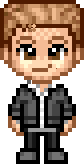
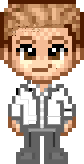
TONY BIG BOSS ADDED

diff --git a/game/game.py b/game/game.py
@@ -10,6 +10,7 @@ class projectile(object):
         self.facing = facing
         self.vel = 8*facing
         self.haskellCount = 0
+        self.damage = 1
         self.haskellShots = [pygame.image.load('images/java_this.png'),pygame.image.load('images/java_abstract.png'),pygame.image.load('images/java_final.png'),pygame.image.load('images/java_hash.png')]
 
     def draw(self, win):
@@ -19,6 +20,62 @@ class projectile(object):
         self.x += self.vel
 
         win.blit(self.haskellShots[self.haskellCount//10], (round(self.x - scroll[0]), round(self.y - scroll[1])))
+
+class enemy(object):
+
+    def __init__(self, x, y, width, height):
+        self.x = x
+        self.y = y
+        self.width = width
+        self.height = height
+        #self.path = (self.x, self.end)
+        self.walkCount = 0
+        self.vel = 3
+        #self.hitbox = (self.x + 17, self.y + 2, 31, 57)
+        self.visible = True
+        self.health = 10
+        # self.walkRight = [pygame.image.load('images/boss_rightStep1.png'), pygame.image.load('images/boss_rightStep2.png')]
+        # self.walkLeft = [pygame.image.load('images/boss_leftWalk1.png'),pygame.image.load('images/boss_leftWalk2.png')]
+
+
+
+    def draw(self, win):
+        #self.move()
+        if self.visible:
+            # if self.walkCount + 1 >= 6:
+            #     self.walkCount = 0
+            # if self.vel > 0:
+            #     win.blit(self.walkRight[self.walkCount // 3] , (self.x- count[0], self.y- count[1]))
+            #     self.walkCount += 1
+            # else:
+            #     win.blit(self.walkLeft[self.walkCount // 3] , (self.x- count[0], self.y- count[1]))
+            #     self.walkCount += 1
+            #self.hitbox = (self.x + 17, self.y + 2, 31, 57)
+
+            win.blit(pygame.image.load('images/tony.png'), (self.x - scroll[0], self.y - scroll[1]))
+            pygame.draw.rect(win, (255, 0 ,0), (self.x - scroll[0], self.y - 20 - scroll[1], 64, 5))
+            pygame.draw.rect(win, (0, 255, 0), (self.x - scroll[0], self.y - 20 - scroll[1], 6.4 * (self.health), 5))
+        #pygame.draw.rect(win, (255,0,0), self.hitbox, 2)
+
+    # def move(self):
+    #     if self.vel > 0:
+    #         if self.x + self.vel <= self.path[1]:
+    #             self.x += self.vel
+    #         else:
+    #             self.vel = self.vel * -1
+    #             self.walkCount = 0
+    #     else:
+    #         if self.x + self.vel >= self.path[0]: #is it plus?
+    #             self.x += self.vel
+    #         else:
+    #             self.vel = self.vel * -1
+    #             self.walkCount = 0
+
+    def hit(self, damage):
+        if self.health > 0:
+            self.health -= damage
+        else:
+            self.visible = False
 
 
 
@@ -153,6 +210,7 @@ def move(rect, movement, tiles):
 
 shootLoop = 0
 computerCount = 0
+tony = enemy(1000, 860, 79, 160)
 while True:  # game loop
     # display.fill((146, 244, 255))  # clear screen by filling it with blue
     display.blit(bg_image, (0,0))
@@ -223,8 +281,8 @@ while True:  # game loop
         player_movement[0] -= velocity
     player_movement[1] += gravity
     gravity += 0.6
-    if gravity > 6:
-        gravity = 6
+    if gravity > 12:
+        gravity = 12
     #--
 
     player_rect, collisions = move(player_rect, player_movement, tile_rects)
@@ -247,6 +305,8 @@ while True:  # game loop
     else:
         display.blit(noWalkPlayer, (player_rect.x - scroll[0], player_rect.y - scroll[1]))
 
+    #draw tony
+    tony.draw(display)
 
     #draw bullets
     if shootLoop > 0:
@@ -272,16 +332,20 @@ while True:  # game loop
                                 round(bullet.y),
                                 bullet_img.get_width(),
                                 bullet_img.get_height())
-        print(str(round(bullet.x)))
-        print(str(round(bullet.y)))
-        print(str(bullet_img.get_width()))
-        print(str(bullet_img.get_height()))
 
+        #wall collision
         hits = collision_test(bullet_rect, tile_rects)
         print(str(hits))
         bullet.draw(display)
         if hits:
             toRemove.append(bullet)
+
+        tony_rect = pygame.Rect(tony.x , tony.y, tony.width, tony.height)
+        tonyhits = collision_test(bullet_rect, [tony_rect])
+        if tonyhits:
+            tony.hit(bullet.damage)
+            toRemove.append(bullet)
+
 
     for bullet in toRemove:
         bullets.pop(bullets.index(bullet))
